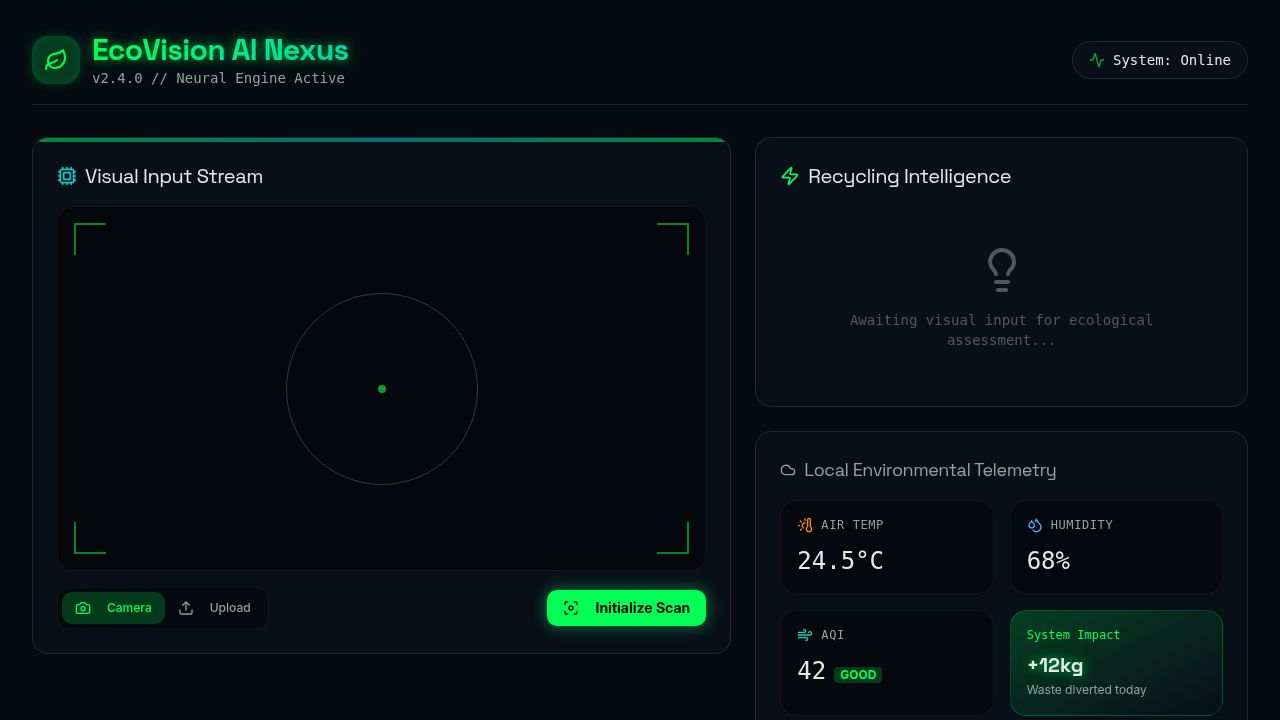
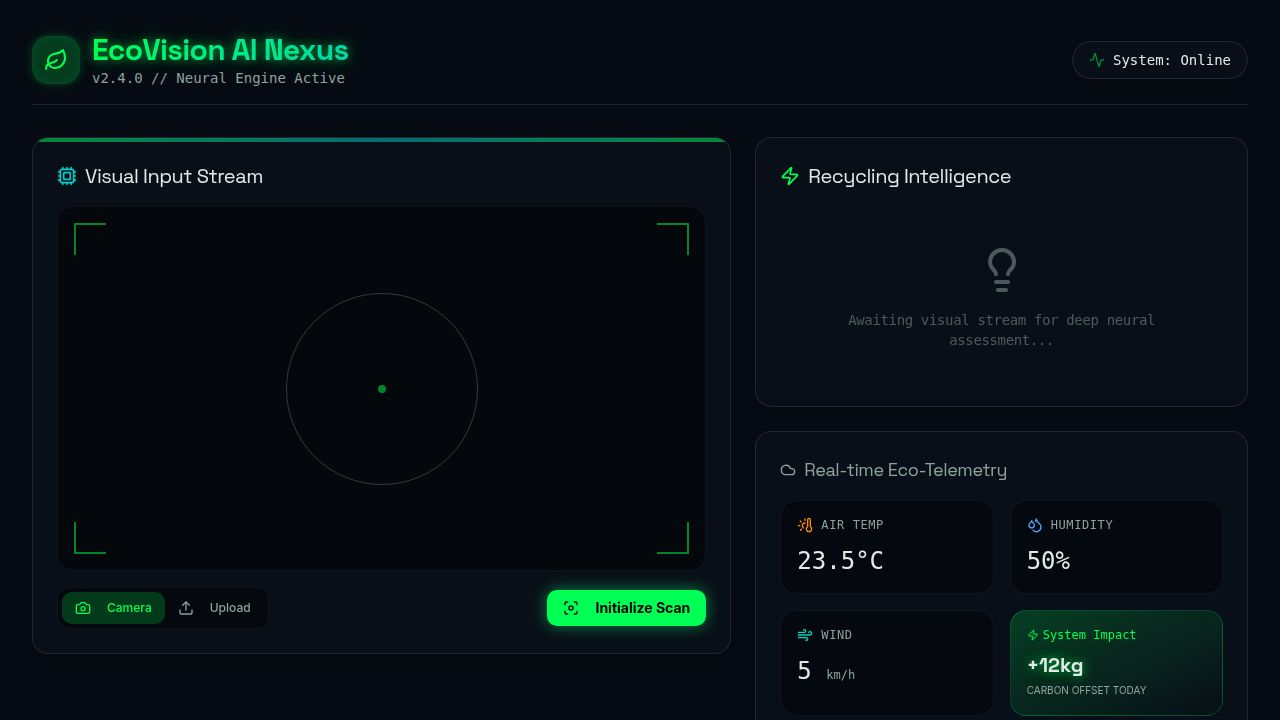
Integrate advanced waste intelligence and environmental monitoring features
Integrates real-time weather data using Open-Meteo API into the EnvironmentalImpact component and enhances the RecyclingIntel component with waste utilization insights, recycling method recommendations, NGO/Government integration, and community/environmental impact information.

Replit-Commit-Author: Agent
Replit-Commit-Session-Id: e435cdbe-6ccf-485c-ad2d-86f431c1468c
Replit-Commit-Checkpoint-Type: full_checkpoint
Replit-Commit-Event-Id: 679031a3-9211-4b33-970b-b45f57d81272
Replit-Commit-Screenshot-Url: https://storage.googleapis.com/screenshot-production-us-central1/aefcd7cf-41f2-40db-ba07-94f9ec8c8d27/e435cdbe-6ccf-485c-ad2d-86f431c1468c/qIP9DTs
Replit-Helium-Checkpoint-Created: true

diff --git a/client/src/components/RecyclingIntel.tsx b/client/src/components/RecyclingIntel.tsx
@@ -1,4 +1,4 @@
-import { Lightbulb, Info, Trash2, ShieldAlert, Recycle, Sprout } from "lucide-react";
+import { Lightbulb, Info, Trash2, ShieldAlert, Recycle, Sprout, Factory, Microscope, Flame, Building, MapPin, Heart, AlertCircle, RefreshCcw } from "lucide-react";
 
 interface IntelProps {
   state: 'idle' | 'analyzing' | 'complete';
@@ -10,7 +10,7 @@ export default function RecyclingIntel({ state, results }: IntelProps) {
     return (
       <div className="h-full flex flex-col items-center justify-center text-muted-foreground opacity-50 p-8 text-center">
         <Lightbulb className={`w-12 h-12 mb-4 ${state === 'analyzing' ? 'animate-pulse text-secondary' : ''}`} />
-        <p className="font-mono text-sm">Awaiting visual input for ecological assessment...</p>
+        <p className="font-mono text-sm tracking-tight">Awaiting visual stream for deep neural assessment...</p>
       </div>
     );
   }
@@ -20,47 +20,43 @@ export default function RecyclingIntel({ state, results }: IntelProps) {
       case 'Recyclable':
         return {
           icon: <Recycle className="w-6 h-6 text-primary" />,
-          action: "Clean and sort before recycling.",
-          steps: [
-            "Rinse out any food residue.",
-            "Remove non-recyclable caps or lids.",
-            "Place in designated blue bin."
-          ],
-          impact: "Saves raw materials and reduces manufacturing energy by up to 90%."
+          utilization: "Plastic → High-grade pellets, synthetic fibers, road construction aggregates.",
+          method: "Mechanical & Chemical Recycling",
+          ngos: ["Waste Warriors", "Saahas", "Hasiru Dala"],
+          gov: "Smart City Material Recovery Facility (MRF)",
+          impact: "Reduces virgin plastic production by 70%; generates local green-collar jobs.",
+          tips: ["Rinse thoroughly", "Crush to save space", "Keep dry"]
         };
       case 'Organic':
         return {
           icon: <Sprout className="w-6 h-6 text-yellow-400" />,
-          action: "Compost or use green bin.",
-          steps: [
-            "Remove any plastic stickers or tags.",
-            "Place in compost bin or municipal green waste.",
-            "Do not mix with regular trash."
-          ],
-          impact: "Reduces methane emissions from landfills and creates nutrient-rich soil."
+          utilization: "Food Waste → Nutrient-rich compost, Biogas for clean energy.",
+          method: "Aerobic Composting / Anaerobic Digestion",
+          ngos: ["Daily Dump", "Soil Vasu", "Green Foundation"],
+          gov: "Municipal Decentralized Composting Units",
+          impact: "Prevents methane leaching in landfills; restores urban soil health.",
+          tips: ["No plastic liners", "Drain liquids", "Remove stickers"]
         };
       case 'Hazardous':
         return {
           icon: <ShieldAlert className="w-6 h-6 text-destructive" />,
-          action: "Requires specialized disposal facility.",
-          steps: [
-            "Do NOT place in regular trash or recycling.",
-            "Store in a safe, leak-proof container.",
-            "Take to local hazardous waste drop-off center."
-          ],
-          impact: "Prevents toxic chemicals from leaching into groundwater and soil."
+          utilization: "E-Waste → Rare earth metal recovery (Gold, Cobalt, Lithium).",
+          method: "Authorized Specialized Extraction",
+          ngos: ["E-Parisaraa", "Attero", "Cerebra"],
+          gov: "State Pollution Control Board (SPCB) Collection Centers",
+          impact: "Prevents heavy metal neurotoxins from entering groundwater systems.",
+          tips: ["Seal in bags", "Don't break screens", "Keep away from heat"]
         };
       case 'Non-Recyclable':
       default:
         return {
           icon: <Trash2 className="w-6 h-6 text-orange-500" />,
-          action: "Dispose of in regular waste bin.",
-          steps: [
-            "Ensure item is not oversized or hazardous.",
-            "Place securely in black/grey trash bin.",
-            "Consider reusable alternatives for the future."
-          ],
-          impact: "Contributes to landfill volume. Reducing consumption is recommended."
+          utilization: "Residual Waste → Refuse Derived Fuel (RDF) for cement kilns.",
+          method: "Controlled Incineration / Waste-to-Energy",
+          ngos: ["SWMRT", "Clean Up Foundation"],
+          gov: "Waste-to-Energy Thermal Plants",
+          impact: "Reduces landfill footprint by 90% through volume reduction.",
+          tips: ["Wrap sharp objects", "Tie bags tightly", "Check for hazardous mix"]
         };
     }
   };
@@ -69,34 +65,77 @@ export default function RecyclingIntel({ state, results }: IntelProps) {
 
   return (
     <div className="flex flex-col gap-6 animate-in slide-in-from-right-4 duration-500">
-      <div className="flex items-start gap-4 p-4 rounded-xl bg-black/40 border border-white/5">
-        <div className="p-2 rounded-lg bg-white/5 border border-white/10">
-          {intel.icon}
+      {/* 2. Waste Utilization Intelligence */}
+      <div className="space-y-4">
+        <div className="p-4 rounded-xl bg-primary/5 border border-primary/10">
+          <h4 className="font-display font-semibold text-sm flex items-center gap-2 mb-2 text-primary">
+            <Factory className="w-4 h-4" /> Waste Usage Insights
+          </h4>
+          <p className="text-sm text-foreground/90 leading-relaxed">{intel.utilization}</p>
         </div>
-        <div>
-          <h4 className="font-display font-semibold text-lg mb-1">Recommended Action</h4>
-          <p className="text-muted-foreground text-sm">{intel.action}</p>
+
+        <div className="p-4 rounded-xl bg-secondary/5 border border-secondary/10">
+          <h4 className="font-display font-semibold text-sm flex items-center gap-2 mb-2 text-secondary">
+            <Microscope className="w-4 h-4" /> Recommended Process
+          </h4>
+          <div className="flex items-center gap-2">
+            <span className="text-xs bg-secondary/20 text-secondary px-2 py-0.5 rounded font-mono uppercase tracking-tighter">
+              {intel.method}
+            </span>
+          </div>
         </div>
       </div>
 
-      <div>
-        <h4 className="font-mono text-sm uppercase text-muted-foreground mb-3 tracking-wider flex items-center gap-2">
-           <Info className="w-4 h-4" /> Action Steps
-        </h4>
-        <ul className="space-y-3">
-          {intel.steps.map((step, idx) => (
-            <li key={idx} className="flex items-start gap-3 text-sm">
-              <span className="font-mono text-secondary mt-0.5 opacity-70">0{idx + 1}</span>
-              <span className="text-foreground/90">{step}</span>
-            </li>
-          ))}
-        </ul>
+      {/* 3. NGO & Government Integration */}
+      <div className="grid grid-cols-1 md:grid-cols-2 gap-4">
+        <div className="space-y-2">
+          <h4 className="font-mono text-[10px] uppercase text-muted-foreground tracking-widest flex items-center gap-1">
+             <MapPin className="w-3 h-3" /> NGO Mapping
+          </h4>
+          <div className="flex flex-wrap gap-1">
+            {intel.ngos.map(ngo => (
+              <span key={ngo} className="text-[10px] bg-white/5 border border-white/10 px-2 py-0.5 rounded text-foreground/80">
+                {ngo}
+              </span>
+            ))}
+          </div>
+        </div>
+        <div className="space-y-2">
+          <h4 className="font-mono text-[10px] uppercase text-muted-foreground tracking-widest flex items-center gap-1">
+             <Building className="w-3 h-3" /> Gov. Initiative
+          </h4>
+          <p className="text-[11px] text-foreground/70">{intel.gov}</p>
+        </div>
       </div>
 
-      <div className="mt-auto pt-4 border-t border-white/5">
-        <p className="text-xs text-muted-foreground leading-relaxed">
-          <strong className="text-foreground">Ecological Impact:</strong> {intel.impact}
-        </p>
+      {/* 4. Social Impact & Awareness */}
+      <div className="pt-4 border-t border-white/5">
+        <div className="flex items-start gap-3 mb-4">
+          <Heart className="w-5 h-5 text-pink-500 shrink-0" />
+          <div>
+            <h4 className="text-xs font-bold uppercase tracking-tight text-pink-500/80">Community Impact</h4>
+            <p className="text-xs text-muted-foreground mt-1">{intel.impact}</p>
+          </div>
+        </div>
+
+        <div className="p-3 rounded-lg bg-black/40 border border-white/5">
+          <h4 className="text-xs font-mono uppercase text-muted-foreground mb-2 flex items-center gap-2">
+            <AlertCircle className="w-3 h-3 text-yellow-500" /> Disposal Do's & Don'ts
+          </h4>
+          <ul className="space-y-1.5">
+            {intel.tips.map((tip, i) => (
+              <li key={i} className="text-[11px] flex items-center gap-2 text-foreground/80">
+                <div className="w-1 h-1 rounded-full bg-primary" /> {tip}
+              </li>
+            ))}
+          </ul>
+        </div>
+      </div>
+
+      {/* Circular Economy Footnote */}
+      <div className="flex items-center gap-2 text-[10px] text-primary/60 font-mono">
+        <RefreshCcw className="w-3 h-3 animate-spin-slow" />
+        CIRCULAR ECONOMY PROTOCOL ACTIVE: WASTE AS RAW MATERIAL
       </div>
     </div>
   );

diff --git a/client/src/components/EnvironmentalImpact.tsx b/client/src/components/EnvironmentalImpact.tsx
@@ -1,50 +1,78 @@
-import { Cloud, Droplets, Wind, ThermometerSun } from "lucide-react";
+import { useEffect, useState } from "react";
+import { Cloud, Droplets, Wind, ThermometerSun, Zap, AlertTriangle } from "lucide-react";
 
 export default function EnvironmentalImpact() {
-  // Mock data for environmental impact
+  const [weather, setWeather] = useState<any>(null);
+  const [loading, setLoading] = useState(true);
+
+  useEffect(() => {
+    // Fetch real-time weather from Open-Meteo
+    // Using Bangalore coordinates as default
+    fetch("https://api.open-meteo.com/v1/forecast?latitude=12.9716&longitude=77.5946&current=temperature_2m,relative_humidity_2m,apparent_temperature,precipitation,wind_speed_10m&timezone=auto")
+      .then(res => res.json())
+      .then(data => {
+        setWeather(data.current);
+        setLoading(false);
+      })
+      .catch(() => setLoading(false));
+  }, []);
+
+  const getWasteClimateInsight = (temp: number) => {
+    if (temp > 30) return "High heat accelerates organic decomposition, increasing odor and methane emissions. Immediate segregation required.";
+    return "Stable conditions for waste transport and processing. Air quality remains priority for incinerator operations.";
+  };
+
   return (
     <div>
       <h3 className="text-lg font-display mb-4 text-muted-foreground flex items-center gap-2">
         <Cloud className="w-4 h-4" />
-        Local Environmental Telemetry
+        Real-time Eco-Telemetry
       </h3>
       
       <div className="grid grid-cols-2 gap-4">
-        <div className="p-4 rounded-xl bg-black/40 border border-white/5 flex flex-col gap-2">
+        <div className="p-4 rounded-xl bg-black/40 border border-white/5 flex flex-col gap-2 group hover:border-orange-400/30 transition-colors">
           <div className="flex items-center gap-2 text-muted-foreground mb-1">
             <ThermometerSun className="w-4 h-4 text-orange-400" />
             <span className="text-xs font-mono uppercase tracking-wider">Air Temp</span>
           </div>
-          <p className="text-2xl font-mono">24.5°C</p>
+          <p className="text-2xl font-mono">{loading ? "--.-" : weather?.temperature_2m}°C</p>
         </div>
         
-        <div className="p-4 rounded-xl bg-black/40 border border-white/5 flex flex-col gap-2">
+        <div className="p-4 rounded-xl bg-black/40 border border-white/5 flex flex-col gap-2 group hover:border-blue-400/30 transition-colors">
           <div className="flex items-center gap-2 text-muted-foreground mb-1">
             <Droplets className="w-4 h-4 text-blue-400" />
             <span className="text-xs font-mono uppercase tracking-wider">Humidity</span>
           </div>
-          <p className="text-2xl font-mono">68%</p>
+          <p className="text-2xl font-mono">{loading ? "--" : weather?.relative_humidity_2m}%</p>
         </div>
         
-        <div className="p-4 rounded-xl bg-black/40 border border-white/5 flex flex-col gap-2">
+        <div className="p-4 rounded-xl bg-black/40 border border-white/5 flex flex-col gap-2 group hover:border-teal-400/30 transition-colors">
           <div className="flex items-center gap-2 text-muted-foreground mb-1">
             <Wind className="w-4 h-4 text-teal-400" />
-            <span className="text-xs font-mono uppercase tracking-wider">AQI</span>
+            <span className="text-xs font-mono uppercase tracking-wider">Wind</span>
           </div>
-          <div className="flex items-baseline gap-2">
-             <p className="text-2xl font-mono">42</p>
-             <span className="text-xs text-primary bg-primary/20 px-1.5 rounded font-bold">GOOD</span>
-          </div>
+          <p className="text-2xl font-mono">{loading ? "--" : weather?.wind_speed_10m} <span className="text-xs text-muted-foreground">km/h</span></p>
         </div>
 
         <div className="p-4 rounded-xl bg-gradient-to-br from-primary/20 to-transparent border border-primary/20 flex flex-col justify-between">
-          <p className="text-xs text-primary font-mono mb-2">System Impact</p>
+          <p className="text-xs text-primary font-mono mb-2 flex items-center gap-1">
+             <Zap className="w-3 h-3" /> System Impact
+          </p>
           <p className="text-sm">
             <strong className="text-xl font-display neon-glow">+12kg</strong><br/>
-            <span className="text-muted-foreground text-xs">Waste diverted today</span>
+            <span className="text-muted-foreground text-[10px] uppercase">Carbon Offset Today</span>
           </p>
         </div>
       </div>
+
+      {!loading && (
+        <div className="mt-4 p-3 rounded-lg bg-secondary/10 border border-secondary/30 flex items-start gap-3 animate-in fade-in duration-1000">
+          <AlertTriangle className="w-4 h-4 text-secondary shrink-0 mt-0.5" />
+          <p className="text-[11px] text-secondary-foreground leading-tight italic">
+            {getWasteClimateInsight(weather?.temperature_2m)}
+          </p>
+        </div>
+      )}
     </div>
   );
 }
